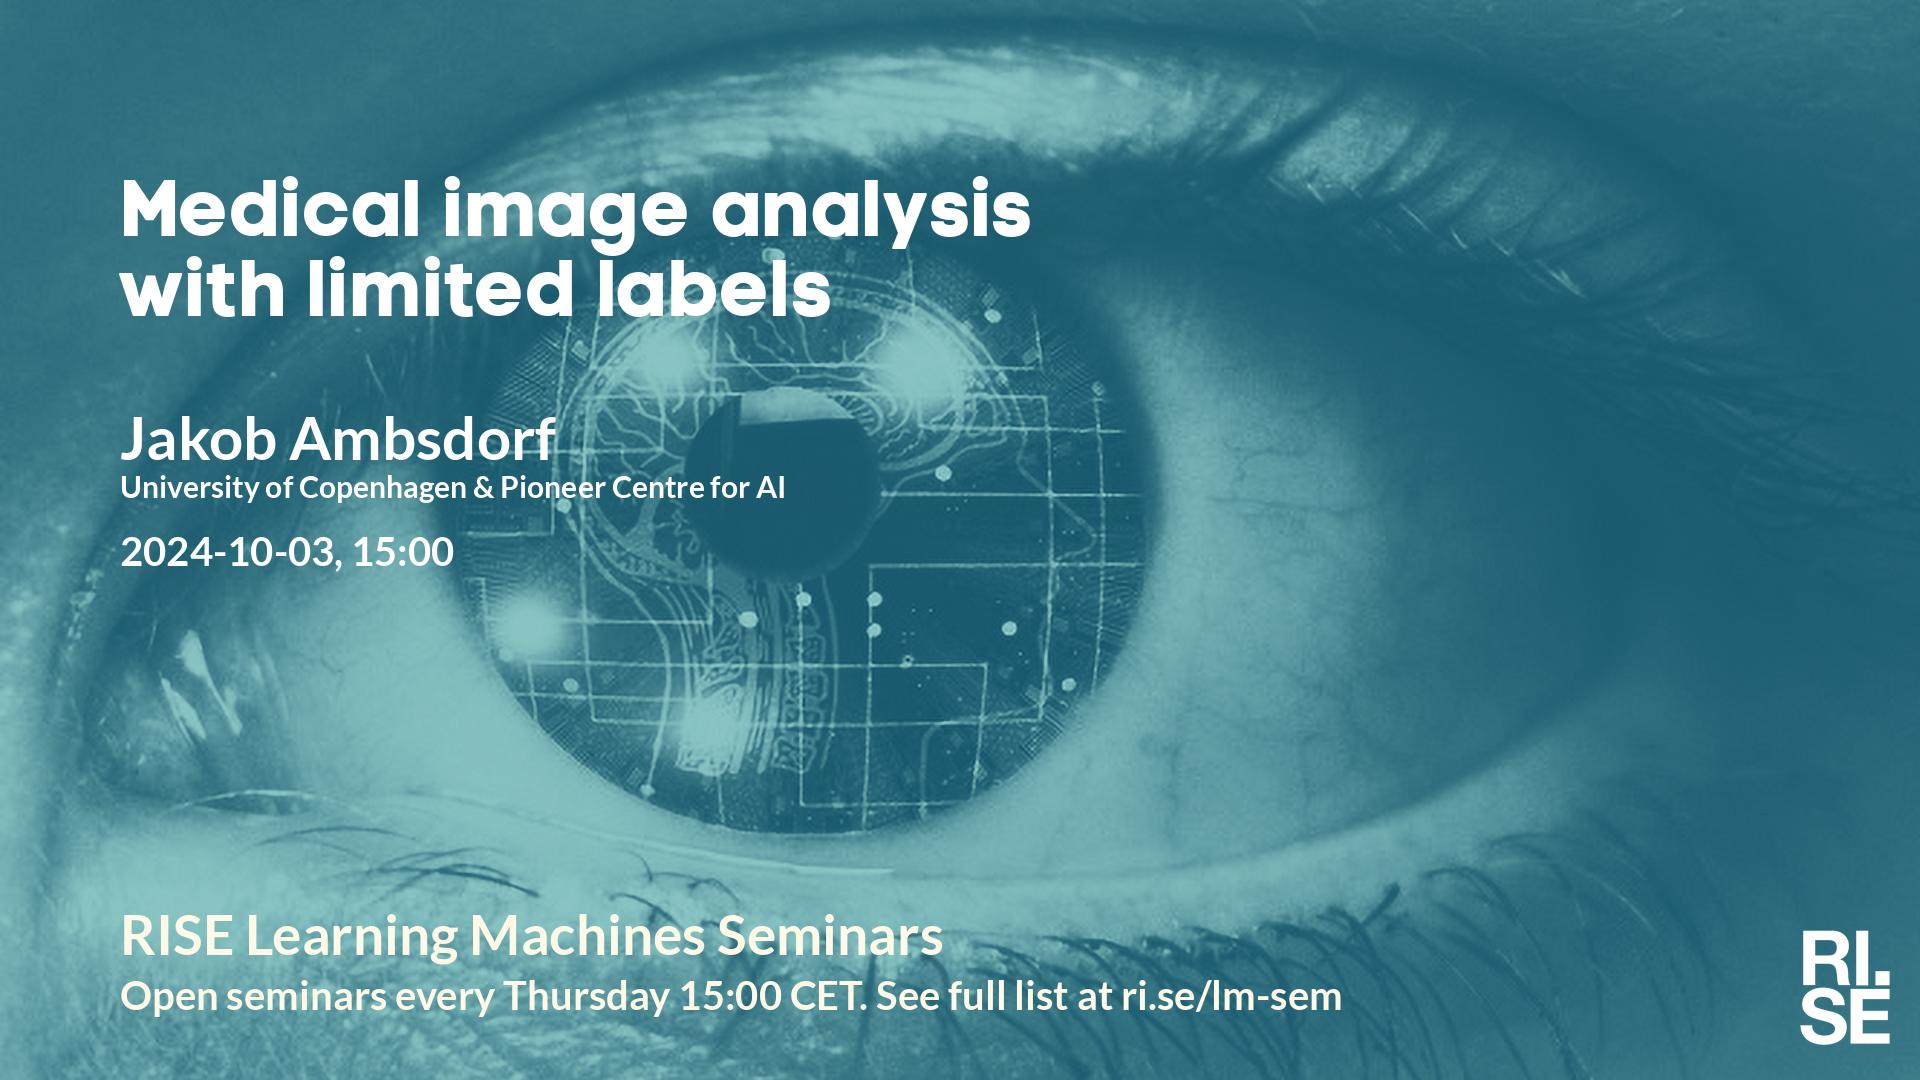
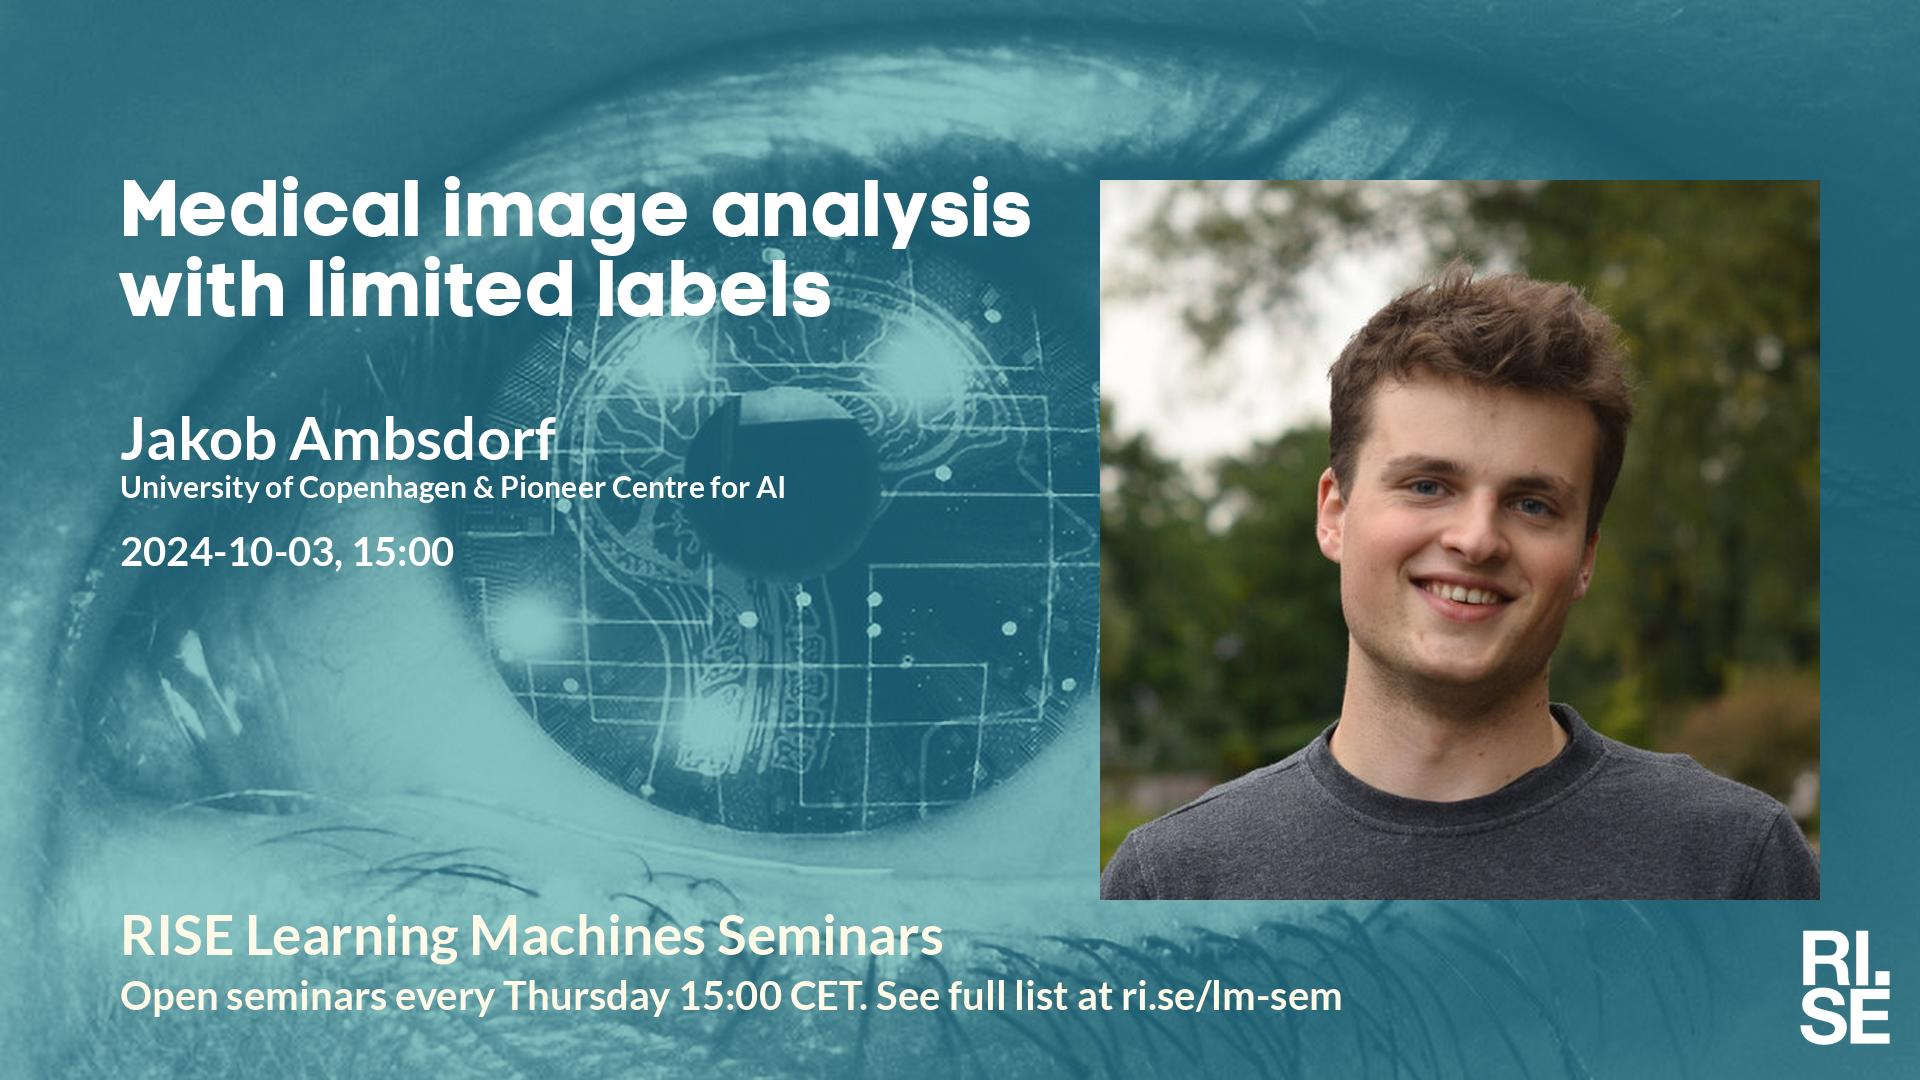
Updated plan on web site.

Changed region(s): [[0.5625, 0.1528, 0.9688, 0.8556]]

diff --git a/lm/index.md b/lm/index.md
@@ -5,14 +5,14 @@ metatags: "<meta name=\"robots\" content=\"noindex,nofollow\" />"
 <style type="text/css" scoped>
 td, th {border: 1px solid #ccc; padding: 0.6em;}
 table {border-collapse: collapse;}
-</style># Learning Machines Plan 2024-09-27
+</style># Learning Machines Plan 2024-10-01
 
 | date | speaker                                   | photo | shareable | meeting backdrop | youtube thumbnail | <a title="Speaker, Title, Abstract, Bio, Photo. Strikethrough means we don't have it yet.">comment</a>        |
 | ---- | ----------------------------------------- | ----- | ----- | ----- | ----- | -------------- |
 | <span style="color:red"> 2024-09-12 </span> | <span style="color:red"> CANCELLED </span> | <span style="color:red">  </span> | <span style="color:red">  </span> | <span style="color:red">  </span> | <span style="color:red">  </span> | <span style="color:red"> CANCELLED </span> |
 |  2024-09-19  |  [Mélisande Teng, MILA and Universite de Montreal](2024-09-19.md)  |  [photo](photo-melisande-teng.jpg)  |  [social media ](social-media-melisande-teng.jpg)  |  [meeting backdrop ](meeting-backdrop-melisande-teng.jpg)  |  [youtube thumbnail ](youtube-thumbnail-melisande-teng.jpg)  |  STABP  |
 |  2024-09-26  |  [Charlie Fieseler, University of Vienna](2024-09-26.md)  |  [photo](photo-charlie-fieseler.jpg)  |  [social media ](social-media-charlie-fieseler.jpg)  |  [meeting backdrop ](meeting-backdrop-charlie-fieseler.jpg)  |  [youtube thumbnail ](youtube-thumbnail-charlie-fieseler.jpg)  |  STABP  |
-|  2024-10-03  |  [Jakob Ambsdorf, University of Copenhagen & Pioneer Centre for AI](2024-10-03.md)  |    |  [social media ](social-media-jakob-ambsdorf.jpg)  |  [meeting backdrop ](meeting-backdrop-jakob-ambsdorf.jpg)  |  [youtube thumbnail ](youtube-thumbnail-jakob-ambsdorf.jpg)  |  STA~~BP~~  |
+|  2024-10-03  |  [Jakob Ambsdorf, University of Copenhagen & Pioneer Centre for AI](2024-10-03.md)  |  [photo](photo-jakob-ambsdorf.jpg)  |  [social media ](social-media-jakob-ambsdorf.jpg)  |  [meeting backdrop ](meeting-backdrop-jakob-ambsdorf.jpg)  |  [youtube thumbnail ](youtube-thumbnail-jakob-ambsdorf.jpg)  |  STABP  |
 | <span style="color:purple"> 2024-10-10 </span> | <span style="color:purple"> *Up for grabs!!!* </span> | <span style="color:purple">  </span> | <span style="color:purple">  </span> | <span style="color:purple">  </span> | <span style="color:purple">  </span> | <span style="color:purple"> ~~STABP~~ </span> |
 |  2024-10-17  |  [Matthias Obst, University of Gothenburg](2024-10-17.md)  |  [photo](photo-matthias-obst.jpg)  |  [social media ](social-media-matthias-obst.jpg)  |  [meeting backdrop ](meeting-backdrop-matthias-obst.jpg)  |  [youtube thumbnail ](youtube-thumbnail-matthias-obst.jpg)  |  S~~TAB~~P  |
 |  2024-10-24  |  [Ankit Kariryaa, University of Copenhagen](2024-10-24.md)  |    |  [social media ](social-media-ankit-kariryaa.jpg)  |  [meeting backdrop ](meeting-backdrop-ankit-kariryaa.jpg)  |  [youtube thumbnail ](youtube-thumbnail-ankit-kariryaa.jpg)  |  S~~TABP~~  |

diff --git a/lm/2024-10-03.md b/lm/2024-10-03.md
@@ -12,7 +12,7 @@ Welcome to this week's Learning Machines seminar.
 
 With this motivation in mind, the main part of this talk focuses on self-supervised pre-training for label efficient learning in medical imaging, and unsupervised methods for solving tasks entirely without manual annotation. I present two of our recent works in detail: Firstly, AMAES is a framework for self-supervised pretraining of 3D brain segmentation models from MRI, and introduces the to-date largest collection of public pretraining datasets compiled in the 🧠BRAINS-45K dataset. We investigate how pretraining in a masked autoencoder framework can improve segmentation performance in the low label regime. Secondly, and returning to fetal ultrasound, I am presenting research on the unsupervised detection of fetal brain anomalies, without requiring segmentation labels and without relying on rare abnormal examples for training.
 
-**About the speaker:** N/A
+**About the speaker:** Jakob Ambsdorf obtained his MSc in Computer Science at the University of Hamburg, where he specialized in machine learning and explainable AI with applications to computer vision and human-robot interaction. He is now a PhD student at the University of Copenhagen and the Pioneer Centre for AI, working on self-supervised learning for fetal ultrasound imaging with a focus on explainability and anomaly detection applications.
 
 **Location:** Scheelevägen 17, Lund, or online using Zoom.
 
